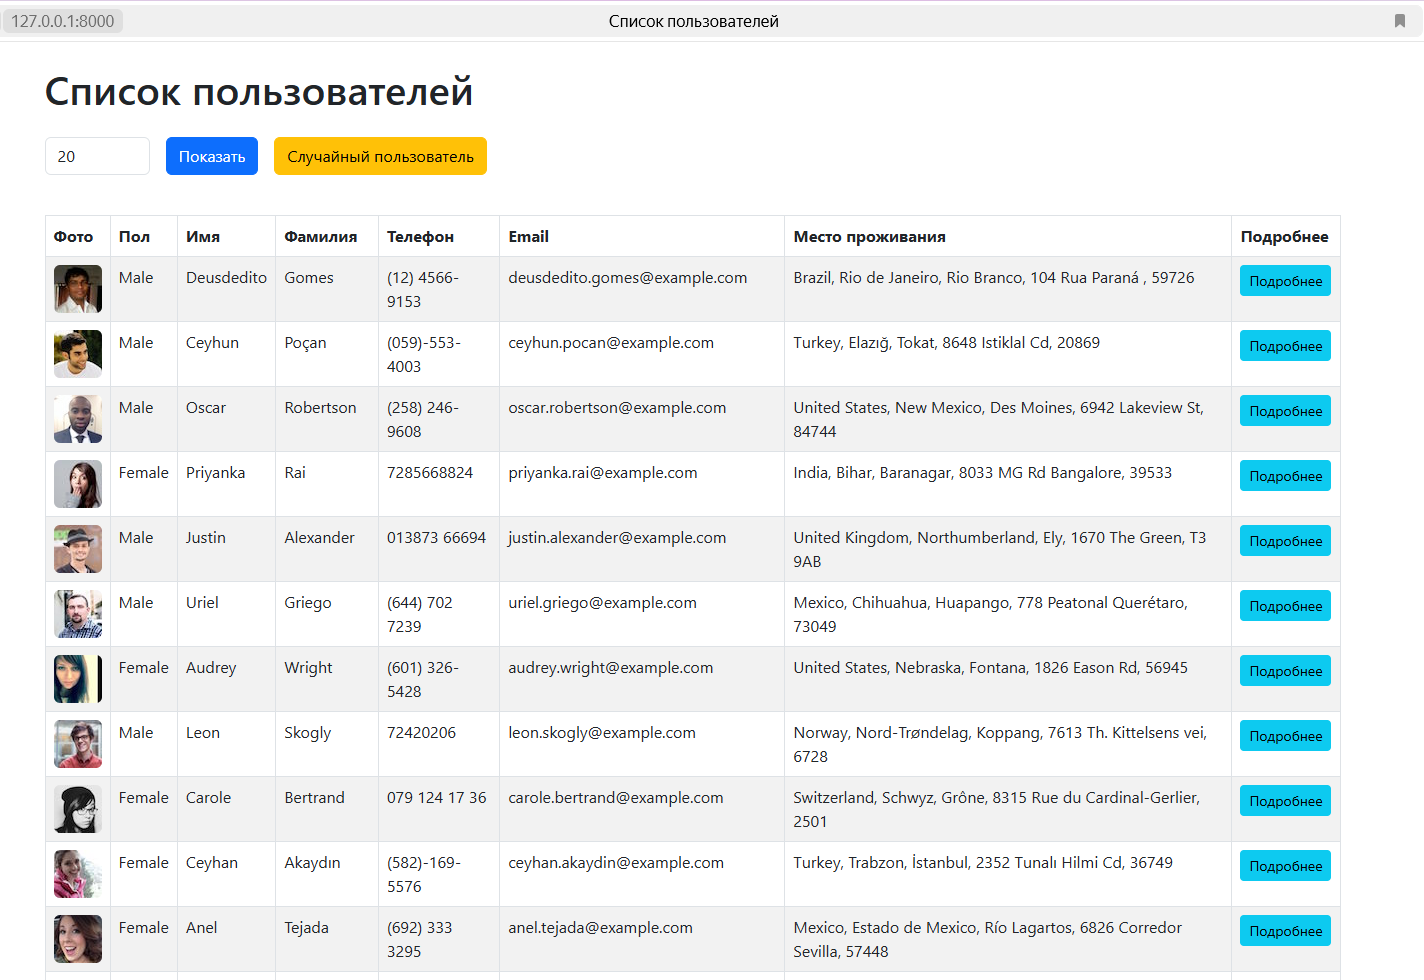
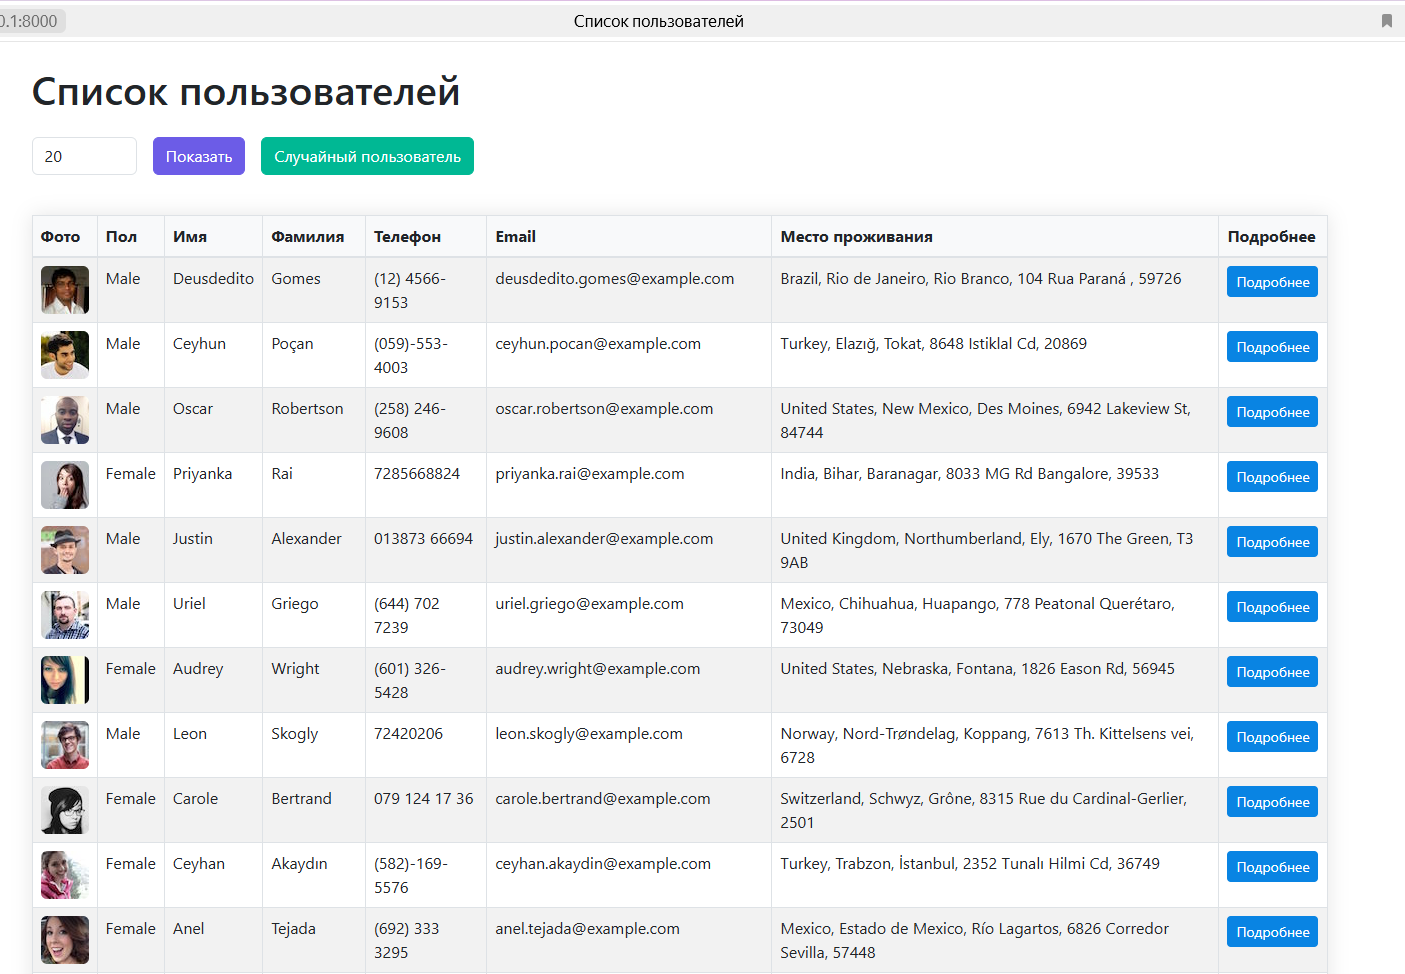
Changes in README.md

diff --git a/templates/users/user_list.html b/templates/users/user_list.html
@@ -5,6 +5,52 @@
     <meta charset="UTF-8">
     <title>Список пользователей</title>
     <link href="https://cdn.jsdelivr.net/npm/bootstrap@5.3.0/dist/css/bootstrap.min.css" rel="stylesheet">
+    <style>
+        .btn-custom-primary {
+            background-color: #6c5ce7;
+            border-color: #6c5ce7;
+            color: white;
+        }
+        .btn-custom-primary:hover {
+            background-color: #5649c0;
+            border-color: #5649c0;
+            color: white;
+        }
+        .btn-custom-warning {
+            background-color: #00b894;
+            border-color: #00b894;
+            color: white;
+        }
+        .btn-custom-warning:hover {
+            background-color: #00a884;
+            border-color: #00a884;
+            color: white;
+        }
+        .btn-custom-info {
+            background-color: #0984e3;
+            border-color: #0984e3;
+            color: white;
+        }
+        .btn-custom-info:hover {
+            background-color: #0873c4;
+            border-color: #0873c4;
+            color: white;
+        }
+        .table {
+            box-shadow: 0 0 20px rgba(0, 0, 0, 0.1);
+        }
+        .table thead th {
+            background-color: #f8f9fa;
+            border-bottom: 2px solid #dee2e6;
+        }
+        .pagination .page-link {
+            color: #6c5ce7;
+        }
+        .pagination .page-item.active .page-link {
+            background-color: #6c5ce7;
+            border-color: #6c5ce7;
+        }
+    </style>
 </head>
 <body>
 <div class="container mt-4">
@@ -14,10 +60,10 @@
             <input type="number" min="1" max="1000" name="count" value="{{ count }}" class="form-control" placeholder="Количество пользователей">
         </div>
         <div class="col-auto">
-            <button type="submit" class="btn btn-primary mb-3">Показать</button>
+            <button type="submit" class="btn btn-custom-primary mb-3">Показать</button>
         </div>
         <div class="col-auto">
-            <a href="/random/" class="btn btn-warning mb-3">Случайный пользователь</a>
+            <a href="/random/" class="btn btn-custom-warning mb-3">Случайный пользователь</a>
         </div>
     </form>
     <table class="table table-striped table-bordered">
@@ -43,7 +89,7 @@
                 <td>{{ user.phone }}</td>
                 <td>{{ user.email }}</td>
                 <td>{{ user.country }}, {{ user.state }}, {{ user.city }}, {{ user.street }}, {{ user.postcode }}</td>
-                <td><a href="{% url 'user_detail' user.uuid %}" class="btn btn-info btn-sm">Подробнее</a></td>
+                <td><a href="{% url 'user_detail' user.uuid %}" class="btn btn-custom-info btn-sm">Подробнее</a></td>
             </tr>
         {% empty %}
             <tr><td colspan="8">Нет данных</td></tr>

diff --git a/templates/users/user_detail.html b/templates/users/user_detail.html
@@ -5,12 +5,48 @@
     <meta charset="UTF-8">
     <title>Пользователь {{ user.first_name }} {{ user.last_name }}</title>
     <link href="https://cdn.jsdelivr.net/npm/bootstrap@5.3.0/dist/css/bootstrap.min.css" rel="stylesheet">
+    <style>
+        .btn-custom-secondary {
+            background-color: #636e72;
+            border-color: #636e72;
+            color: white;
+        }
+        .btn-custom-secondary:hover {
+            background-color: #4d5656;
+            border-color: #4d5656;
+            color: white;
+        }
+        .btn-custom-warning {
+            background-color: #00b894;
+            border-color: #00b894;
+            color: white;
+        }
+        .btn-custom-warning:hover {
+            background-color: #00a884;
+            border-color: #00a884;
+            color: white;
+        }
+        .card {
+            box-shadow: 0 0 20px rgba(0, 0, 0, 0.1);
+            border: none;
+        }
+        .card-title {
+            color: #2d3436;
+            font-weight: 600;
+        }
+        .card-text {
+            color: #636e72;
+        }
+        .card-text b {
+            color: #2d3436;
+        }
+    </style>
 </head>
 <body>
 <div class="container mt-4">
-    <a href="/" class="btn btn-secondary mb-3">Назад к списку</a>
+    <a href="/" class="btn btn-custom-secondary mb-3">Назад к списку</a>
     {% if random %}
-        <a href="/random/" class="btn btn-warning mb-3">Другой случайный</a>
+        <a href="/random/" class="btn btn-custom-warning mb-3">Другой случайный</a>
     {% endif %}
     <div class="card" style="max-width: 500px; margin: auto;">
         <div class="row g-0">

diff --git a/README.md b/README.md
@@ -29,7 +29,7 @@ venv\Scripts\activate     # для Windows
 
 2. Установите зависимости:
 ```bash
-pip install -r requirements.txt
+pip install django requests
 ```
 
 3. Примените миграции:
